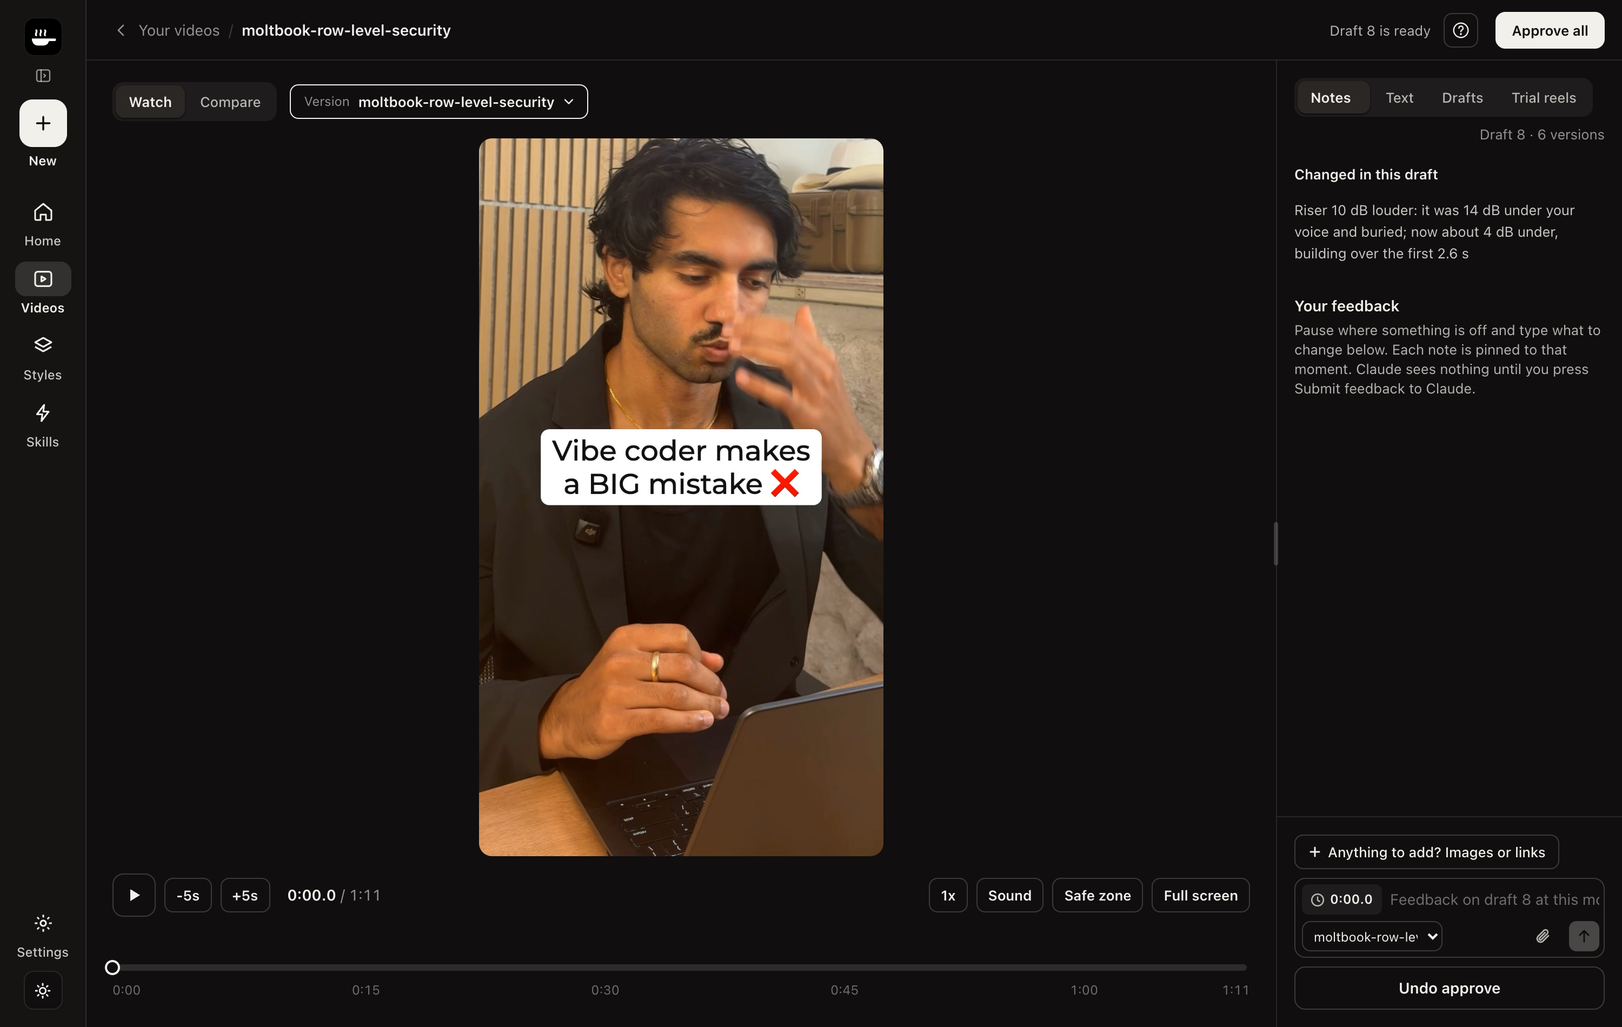
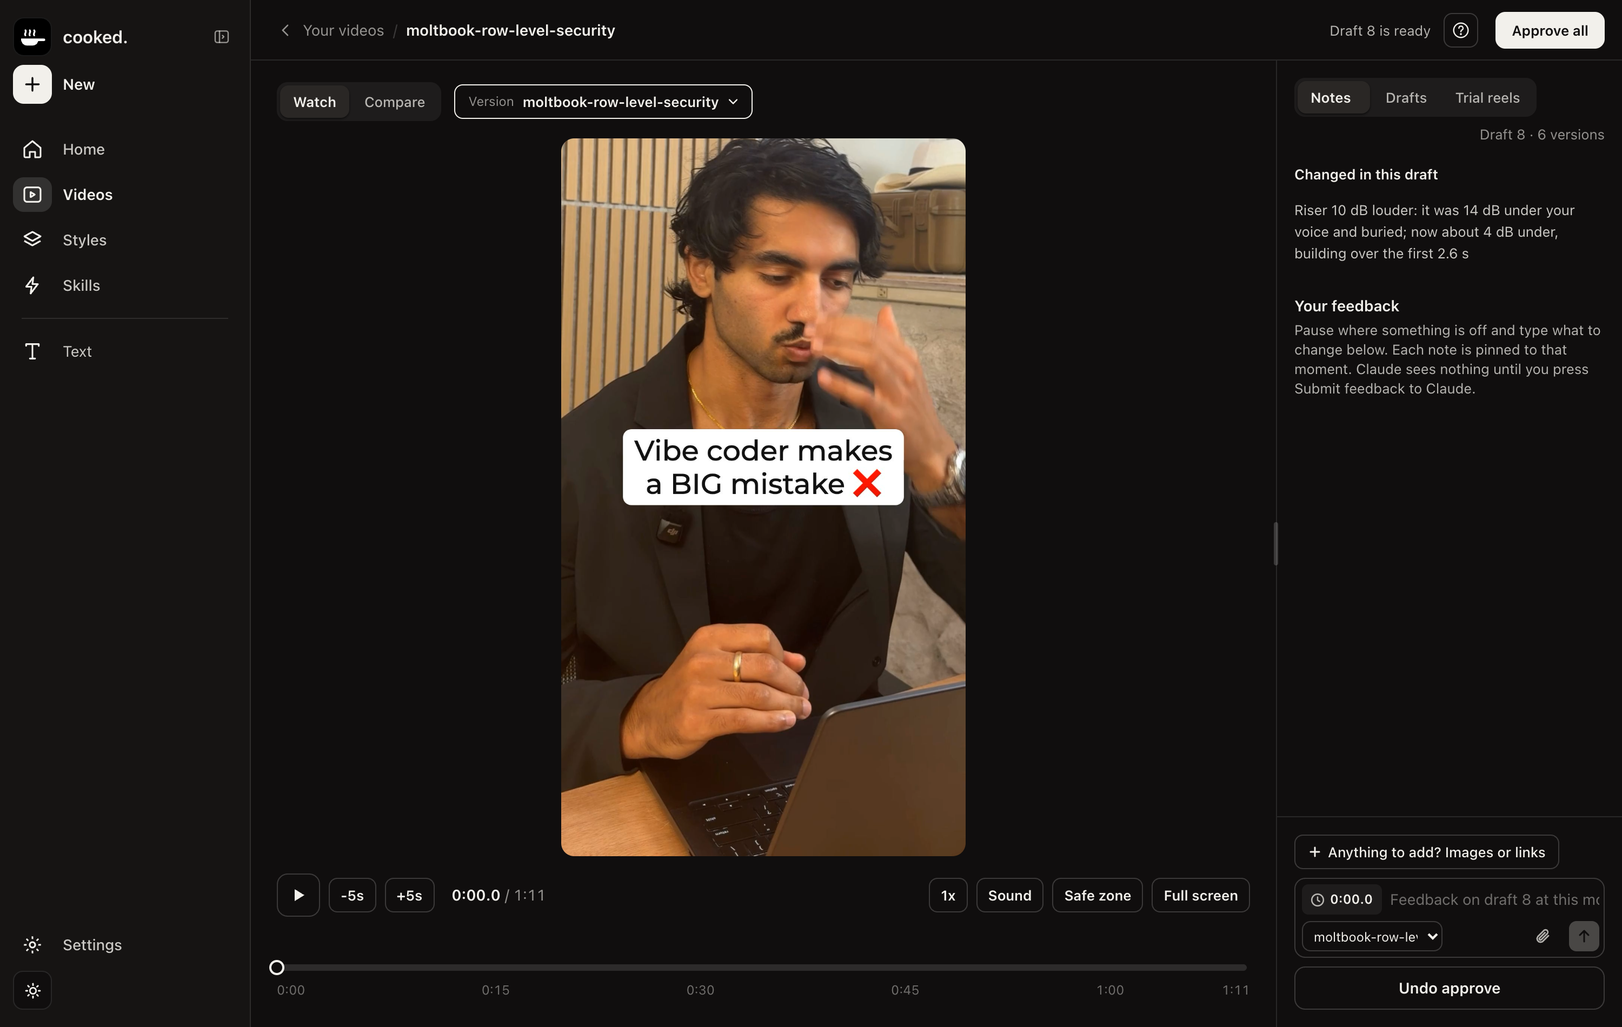
Text panel on the left like Tella; Notes stay on the right
Max: Notes stay on the right, text goes on the left like Tella. Tella's
editor (checked in his workspace): a tool column on the left opens each
tool's panel beside it; Overlay > Text is a grid of style tiles drawn in
their look plus +; select a text on the canvas to change it.

The Text tool sits in the left menu under Skills (edit stage only) and opens
#tside between the menu and the video: + and three look tiles, the selected
text's words, look, Start here / End here and Delete, then every text on the
video. The right panel is Notes, Drafts, Trial reels again. Fixes from a
usability pass: the preview stays while you scrub during an edit and clears
after Save, the toast says to Submit, and the player bar fits or wraps with
both panels open down to 1100 px.

diff --git a/plugins/ai-editor/lib/ai_editor/review.html b/plugins/ai-editor/lib/ai_editor/review.html
@@ -377,10 +377,25 @@ aside{width:var(--sidew,320px);flex-shrink:0;background:var(--panel);border-left
 /* the Text tool: words typed into the box go on the video, dragged into place, in TikTok's three looks */
 #tools{grid-row:2;grid-column:3;justify-self:end;display:flex;gap:2px}
 #tlayer{overflow:hidden}
-body.txtab #box,body.txtab #adds{display:none}body.txtab .pfoot{padding-top:0;border-top:0}
+/* the Text panel: Tella's Overlay > Text, on the left beside the menu; Notes stay on the right */
+.rdiv{height:1px;align-self:stretch;margin:6px 8px;background:var(--line);flex-shrink:0}.rdiv[hidden]{display:none}
+button.ritem.rtool.on i{background:var(--railon)}button.ritem.rtool.on{color:var(--ink);font-weight:600}
+#tside{display:none;width:300px;flex-shrink:0;flex-direction:column;background:var(--panel);border-right:1px solid var(--line);overflow:hidden}
+body.tside #tside{display:flex}
+@media (max-width:1440px){body.tside .transport{gap:6px}body.tside .left{padding-left:16px;padding-right:16px}body.tside .transport .tbtn{padding:0 8px}}
+@media (max-width:1279px){body.tside .transport{flex-wrap:wrap;height:auto;row-gap:6px}}
+.tsh{display:flex;align-items:center;gap:6px;padding:16px 16px 8px}.tsh b{flex:1;font-size:15px;line-height:20px;font-weight:600;color:var(--strong)}
+.tsh button{width:28px;height:28px;border-radius:8px;display:grid;place-items:center;font-size:18px;line-height:1;color:var(--body)}.tsh button:hover{background:var(--hover);color:var(--ink)}
+#tbody{flex:1;min-height:0;overflow:auto;padding:4px 16px 16px;display:flex;flex-direction:column;gap:14px}
+.ttiles{display:grid;grid-template-columns:repeat(3,1fr);gap:8px}
+.ttile{height:64px;border-radius:10px;background:#3A3D44 linear-gradient(160deg,#5B6270,#2B2E35);display:grid;place-items:center;font-family:'TikTok Sans',system-ui,-apple-system,sans-serif;font-weight:700;font-size:15px;outline:1.5px solid transparent;outline-offset:2px}
+.ttile:hover{outline-color:var(--line2)}.ttile.on{outline-color:var(--ink)}
+.tcap{display:flex;justify-content:space-between;font-size:12px;line-height:16px;color:var(--muted)}
+.ttime{display:flex;align-items:center;gap:6px;font-size:13px;line-height:16px;color:var(--strong)}.ttime b{flex:1;font-weight:600}
+.ttime button{height:28px;padding:0 9px;border-radius:8px;border:1px solid var(--line2);font-size:12px;font-weight:600;color:var(--ink)}.ttime button:hover{border-color:var(--ink)}
+.tnew #tdel{color:var(--flag);margin-right:auto;padding:0}
+@media (max-width:760px){#tside{width:auto;border-right:0;border-bottom:1px solid var(--line)}body.tside main{flex-direction:column}}
 .tsub{margin:0;color:var(--muted);font-size:13px;line-height:18px}
-.tstyles{display:flex;gap:6px}.tstyles button{flex:1;height:32px;border-radius:8px;border:1px solid var(--line2);background:var(--panel);font-size:13px;font-weight:600;color:var(--ink)}
-.tstyles button:hover{border-color:var(--ink)}.tstyles button.on{border-color:var(--ink);box-shadow:inset 0 0 0 1px var(--ink)}
 .tnew{display:flex;flex-direction:column;gap:8px;padding:12px;border:1px solid var(--line);border-radius:12px}
 .tnew b{font-size:13px;line-height:16px;color:var(--strong)}
 .tnew input{height:36px;border:1px solid var(--line2);border-radius:8px;background:var(--panel);padding:0 10px;font:inherit;font-size:14px;color:var(--strong);outline:none}.tnew input:focus{border-color:var(--ink)}
@@ -559,6 +574,8 @@ body.making #making{display:flex}
  <a class="ritem on" data-home data-view="videos" href="#" aria-current="page"><i><svg width="20" height="20" viewBox="0 0 24 24" fill="none" stroke="currentColor" stroke-width="1.9" stroke-linejoin="round"><rect x="3" y="4" width="18" height="16" rx="3"/><path d="M10 9.2v5.6l4.6-2.8z"/></svg></i>Videos</a>
  <a class="ritem" data-home data-view="mystyle" href="#"><i><svg width="20" height="20" viewBox="0 0 24 24" fill="none" stroke="currentColor" stroke-width="1.9" stroke-linejoin="round"><path d="M12 3 3 8l9 5 9-5z"/><path d="M3 13l9 5 9-5"/></svg></i>Styles</a>
  <a class="ritem" data-home data-view="skills" href="#"><i><svg width="20" height="20" viewBox="0 0 24 24" fill="none" stroke="currentColor" stroke-width="1.9" stroke-linejoin="round"><path d="M13 3 5 13.5h6l-1 7.5 8-10.5h-6z"/></svg></i>Skills</a>
+ <div class="rdiv" id="railtools" hidden></div>
+ <button class="ritem rtool" id="railtext" type="button" hidden title="Text on the video"><i><svg width="20" height="20" viewBox="0 0 24 24" fill="none" stroke="currentColor" stroke-width="1.9" stroke-linecap="round" stroke-linejoin="round"><path d="M5 6V4h14v2M12 4v16M9 20h6"/></svg></i>Text</button>
  <div class="rflex"></div>
  <a class="ritem rjob" id="railjobs" data-home data-view="videos" href="#" hidden><i><span id="jobn">0</span><svg width="24" height="24" viewBox="0 0 24 24" aria-hidden="true"><circle cx="12" cy="12" r="10" fill="none" stroke="var(--line)" stroke-width="2.5"/><path d="M12 2a10 10 0 0 1 9.5 13" fill="none" stroke="currentColor" stroke-width="2.5" stroke-linecap="round"/></svg></i>Making</a>
  <button class="ritem rupd" id="railupd" type="button" hidden><i><svg width="18" height="18" viewBox="0 0 24 24" fill="none" stroke="currentColor" stroke-width="2.2" stroke-linecap="round" stroke-linejoin="round"><path d="M12 16V4M7 9l5-5 5 5M4 20h16"/></svg></i><span id="railupdt">Update</span></button>
@@ -579,6 +596,7 @@ body.making #making{display:flex}
 </ol><div id="keys"></div></section>
 
 <main>
+<section id="tside" aria-label="Text"><div class="tsh"><b>Text</b><button id="tplus" title="Add text (the default look)" aria-label="add text">+</button><button id="tclose" title="Close" aria-label="close the text panel">×</button></div><div id="tbody"></div></section>
 <div class="left">
  <div class="stagewrap">
  <div id="stagebar" role="status"><svg width="15" height="15" viewBox="0 0 16 16" fill="none" stroke="currentColor" stroke-width="1.4" stroke-linecap="round"><circle cx="4" cy="4.5" r="2.2"/><circle cx="4" cy="11.5" r="2.2"/><path d="M5.8 5.6L14 11.5M5.8 10.4L14 4.5"/></svg><span id="stagetext"></span></div>
@@ -615,7 +633,7 @@ body.making #making{display:flex}
 </div>
 <div class="rsz" id="rszside" role="separator" aria-orientation="vertical" aria-label="drag to resize the notes panel" title="drag to resize"></div>
 <aside>
- <div class="phead"><div class="seg" id="ptabs"><button data-tab="notes">Notes <small id="ncount"></small></button><button data-tab="text" hidden>Text</button><button data-tab="rounds">Drafts</button><button data-tab="trials" hidden>Trial reels</button></div><span id="pmeta"></span></div>
+ <div class="phead"><div class="seg" id="ptabs"><button data-tab="notes">Notes <small id="ncount"></small></button><button data-tab="rounds">Drafts</button><button data-tab="trials" hidden>Trial reels</button></div><span id="pmeta"></span></div>
  <div class="mhead2"><div><b>Notes</b><span id="mcount"></span></div><button id="msend"></button></div>
  <div id="list"></div>
  <div class="pfoot">
@@ -877,7 +895,7 @@ function render(){
   $('mcount').textContent=mine?mine+(p?'':', not sent'):'';
   if(S.trials&&S.trials.v!==trOpened){trOpened=S.trials.v;if(S.trials.state==='proposed')tab='trials'}   // a new plan: open the tab on it
   if(!S.trials&&tab==='trials')tab='notes';
-  $('ptabs').querySelector('[data-tab=trials]').hidden=!S.trials;document.body.classList.toggle('trtab',tab==='trials');document.body.classList.toggle('txtab',tab==='text');
+  $('ptabs').querySelector('[data-tab=trials]').hidden=!S.trials;document.body.classList.toggle('trtab',tab==='trials');
   [...$('ptabs').children].forEach(b=>b.classList.toggle('on',b.dataset.tab===tab));
   const nv=(vr.alts||[]).length;
   meta();
@@ -1063,8 +1081,7 @@ function renderList(){
       const ta2=l.querySelector('.trta');if(ta2){ta2.value=trAsk;if(f){ta2.focus();ta2.setSelectionRange(pos,pos)}}}
     return;
   }
-  if(tab==='text')return renderTextPanel();
-  $('list')._trh='';$('list')._tx=0;
+  $('list')._trh='';
   if(tab==='rounds'){
     const rs=(S.rounds||[cur()]).filter(r=>r.stage===view.stage).slice().reverse(),p=pending();
     $('list').innerHTML=rs.map(r=>{const n=S.comments.filter(c=>c.stage===r.stage&&c.round===r.round).length,k=key(r);
@@ -1590,76 +1607,89 @@ $('pics').onclick=e=>{const b=e.target.closest('[data-rm]');if(b){pics.splice(+b
 ta.addEventListener('paste',e=>{const fs=[...(e.clipboardData?.files||[])];if(fs.length){e.preventDefault();addFiles(fs)}});
 box.addEventListener('dragover',e=>{e.preventDefault();if(!ta.disabled)box.classList.add('drag')});box.addEventListener('dragleave',()=>box.classList.remove('drag'));
 box.addEventListener('drop',e=>{e.preventDefault();box.classList.remove('drag');if(!ta.disabled)addFiles(e.dataTransfer.files)});
-// the Text tab (beside Notes): pick a look, type, drag it on the video, Add text. It starts at the playhead for 3 s, or
-// over an i/o range, and is saved as a note with add_text (review.py `wait` puts it in texts.json). Every text of the edit
-// is listed; click one (in the list, or on the video) to change its words, look, place or time (i/o) and Save.
-// A sent one is changed in texts.json with a note (/text/edit) or taken out (/text/delete), so the next draft follows.
+// the Text panel (Tella's Overlay > Text), on the left: the Text tool in the menu opens it, Notes stay on the right.
+// A tile adds a text in that look at the playhead (3 s, or over an i/o range); type, drag it on the video, Add text.
+// Click any text (on the video or in the list) to change its words, look, place or time, then Save, or Delete it.
+// Not sent yet: the note changes (/edit). Sent: texts.json changes with a note for Claude (/text/edit, /text/delete).
 const TSTY={plain:'Plain',outline:'Outline',box:'Box'},TEXT_SIZE=6;
-let tx=null,tsig='';   // tx: the text being made or changed {style,x,y,word,edit:{id,fresh,start,end}}
+let tx=null,tsig='',tpanel=false;   // tx: the text being made or changed {style,x,y,word,start,end,edit:{id,fresh}}
 const tword=()=>{const w=$('tword');return w?w.value.trim():tx?tx.word||'':''};
-function setText(style,edit){tx=style?{style,x:edit?edit.x_pct:(tx&&tx.x)||50,y:edit?edit.y_pct:(tx&&tx.y)||40,word:edit?edit.text:tword(),edit:edit||(tx&&tx.edit)||null}:null;
-  if(edit&&edit.start!=null&&Math.abs(v.currentTime-edit.start)>.05&&!(v.currentTime>=edit.start&&v.currentTime<edit.end))v.currentTime=edit.start+.05;
-  document.body.classList.toggle('texting',!!tx);if(tab!=='text'&&tx){tab='text'}
-  tsig='';$('list')._tf=null;if(S)render();renderTexts();if(tx){v.pause();setTimeout(()=>{const w=$('tword');if(w){w.focus();w.select()}},0)}}
+const editable=c=>!(S.sent&&!c.queued)&&c.round>=S.round;
+function openPanel(on){tpanel=on;document.body.classList.toggle('tside',on);$('railtext').classList.toggle('on',on);if(!on&&tx)setText(null);else renderTextPanel()}
+function setText(style,edit){
+  if(!style){tx=null}
+  else{const[a,b]=noteSpan(),t0=edit?edit.start:a;
+    tx={style,x:edit?edit.x_pct:(tx&&tx.x)||50,y:edit?edit.y_pct:(tx&&tx.y)||40,word:edit?edit.text:tword(),
+        start:t0,end:edit?edit.end:(b??Math.min(t0+3,v.duration||t0+3)),edit:edit||(tx&&tx.edit)||null};
+    if(!tpanel)openPanel(true);
+    if(!(v.currentTime>=tx.start&&v.currentTime<tx.end))v.currentTime=tx.start+.05}
+  document.body.classList.toggle('texting',!!tx);tsig=null;$('tbody')._tf=null;renderTextPanel();renderTexts();
+  if(tx){v.pause();setTimeout(()=>{const w=$('tword');if(w){w.focus();w.select()}},0)}}
 function textItems(){   // sent ones (texts.json) and this edit's text notes not in it yet
   const sent=S.texts||[],ids=new Set(sent.map(x=>x.id));
   const fresh=S.comments.filter(c=>c.add_text&&c.stage==='edit'&&!ids.has('edit'+c.round+'-'+c.id))   // with Claude, not in texts.json yet: shown, locked
     .map(c=>({id:c.id,text:c.text,style:c.add_text.style,x_pct:c.add_text.x_pct,y_pct:c.add_text.y_pct,start:c.t,end:c.t_end??c.t+3,fresh:editable(c),locked:!editable(c)}));
   return [...fresh,...sent.map(x=>({...x,fresh:false}))].sort((a,b)=>a.start-b.start)}
-const editable=c=>!(S.sent&&!c.queued)&&c.round>=S.round;
 function renderTextPanel(){
-  const l=$('list');
-  if(!l._tx){l._tx=1;l._trh='';l.innerHTML=`<p class="tsub">Text on the video. Pick a look, type, and drag it into place. It starts at the playhead and stays 3 s, or over the range you mark with i and o. Click a text to change it.</p>
-    <div class="tstyles" id="tstyles">${Object.entries(TSTY).map(([k,n])=>`<button data-ts="${k}">${n}</button>`).join('')}</div><div id="tform"></div><div class="tlist" id="trows"></div>`}
-  document.querySelectorAll('#tstyles [data-ts]').forEach(b=>b.classList.toggle('on',!!tx&&b.dataset.ts===tx.style));
+  const l=$('tbody');if(!tpanel||!S)return;
+  if(!l._tx){l._tx=1;l.innerHTML=`<div><div class="tcap" style="margin-bottom:8px"><span>Pick a look</span></div><div class="ttiles" id="ttiles">${Object.entries(TSTY).map(([k,n])=>`<button class="ttile" data-ts="${k}" title="${n}"><span class="ts-${k}">${n}</span></button>`).join('')}</div></div><div id="tform"></div><div class="tlist" id="trows"></div>`}
+  document.querySelectorAll('#ttiles [data-ts]').forEach(b=>b.classList.toggle('on',!!tx&&b.dataset.ts===tx.style));
   const f=$('tform'),sig=tx?(tx.edit?'e'+tx.edit.id:'n'):'';
-  if(l._tf!==sig){l._tf=sig;f.innerHTML=tx?`<div class="tnew">${tx.edit?`<b>Change this text</b>`:''}<input id="tword" placeholder="Type your text" maxlength="120" aria-label="the text" value="${esc(tx.word||'')}">
-    <div class="row"><span>${tx.edit?'Drag it on the video. Mark i and o to change its time.':'Drag it on the video'}</span><button id="tcancel">Cancel</button><button id="tadd" ${tword()?'':'disabled'}>${tx.edit?'Save':'Add text'}</button></div></div>`:''}
+  if(l._tf!==sig){l._tf=sig;f.innerHTML=tx?`<div class="tnew">${tx.edit?'<b>Change this text</b>':'<b>New text</b>'}<input id="tword" placeholder="Type your text" maxlength="120" aria-label="the text" value="${esc(tx.word||'')}">
+    <div class="ttime"><b id="tspan"></b><button id="tstart" title="Start at the playhead">Start here</button><button id="tend" title="End at the playhead">End here</button></div>
+    <div class="row"><span>Drag it on the video</span></div>
+    <div class="row">${tx.edit?'<button id="tdel">Delete</button>':'<span></span>'}<button id="tcancel">Cancel</button><button id="tadd" ${tword()?'':'disabled'}>${tx.edit?'Save':'Add text'}</button></div></div>`:''}
+  if(tx&&$('tspan'))$('tspan').textContent=fmtx(tx.start)+' – '+fmtx(tx.end);
   const all=textItems(),on=x=>tx&&tx.edit&&String(tx.edit.id)===String(x.id);
   const row=x=>x.locked?`<div class="titem" data-tseek="${x.start}"><div><b>${esc(x.text)}</b><span>${TSTY[x.style]||x.style} · ${fmtx(x.start)}–${fmtx(x.end)} · Claude has it</span></div></div>`
     :`<div class="titem${on(x)?' on':''}" data-tedit="${esc(String(x.id))}" data-fresh="${x.fresh?1:''}" title="Click to change it"><div><b>${esc(x.text)}</b><span>${TSTY[x.style]||x.style} · ${fmtx(x.start)}–${fmtx(x.end)}</span></div><button data-tdel="${esc(String(x.id))}" data-fresh="${x.fresh?1:''}">Delete</button></div>`;
   const nw=all.filter(x=>x.fresh),old=all.filter(x=>!x.fresh);
-  const h=(nw.length?`<h4>Not sent yet</h4>${nw.map(row).join('')}`:'')+(old.length?`<h4>Sent to Claude</h4>${old.map(row).join('')}`:'')
-    +(all.length?'':'<p class="tsub">No text yet. Pick a look above to add one.</p>');
+  const h=(nw.length?`<h4>Not sent yet</h4>${nw.map(row).join('')}`:'')+(old.length?`<h4>On the video</h4>${old.map(row).join('')}`:'')
+    +(all.length||tx?'':'<p class="tsub">No text yet. Pick a look to add one. Click any text on the video to change it.</p>');
   if($('trows')._h!==h){$('trows')._h=h;$('trows').innerHTML=h}}
 function editText(id,fresh){const x=textItems().find(x=>String(x.id)===String(id)&&!!x.fresh===!!fresh);if(!x)return;
   inT=outT=null;renderBar();setText(x.style,{id:x.id,fresh:x.fresh,text:x.text,x_pct:x.x_pct??50,y_pct:x.y_pct??40,start:x.start,end:x.end})}
-$('list').addEventListener('click',async e=>{
-  const st=e.target.closest('#tstyles [data-ts]');if(st){if(tx){tx.style=st.dataset.ts;tsig='';renderTextPanel();renderTexts()}else setText(st.dataset.ts);return}
+async function delText(id,fresh){const r=fresh?await post('/delete',{id:+id}):await post('/text/delete',{id});
+  if(tx&&tx.edit&&String(tx.edit.id)===String(id))setText(null);toast(fresh?'Text deleted':r.error||'Text deleted. The next draft drops it.');await load()}
+$('railtext').onclick=()=>openPanel(!tpanel);$('tclose').onclick=()=>openPanel(false);$('tplus').onclick=()=>setText('outline');
+$('tbody').addEventListener('click',async e=>{
+  const st=e.target.closest('#ttiles [data-ts]');if(st){if(tx){tx.style=st.dataset.ts;tsig=null;renderTextPanel();renderTexts()}else setText(st.dataset.ts);return}
   if(e.target.id==='tcancel'){setText(null);return}
   if(e.target.id==='tadd'){saveText();return}
-  const d=e.target.closest('[data-tdel]');
-  if(d){e.stopPropagation();d.disabled=true;const r=d.dataset.fresh?await post('/delete',{id:+d.dataset.tdel}):await post('/text/delete',{id:d.dataset.tdel});
-    if(tx&&tx.edit&&String(tx.edit.id)===d.dataset.tdel)setText(null);
-    toast(d.dataset.fresh?'Text deleted':r.error||'Text deleted. The next draft drops it.');await load();return}
+  if(e.target.id==='tstart'||e.target.id==='tend'){const t=Math.round(v.currentTime*100)/100;
+    if(e.target.id==='tstart'){tx.start=t;if(tx.end<=t+.1)tx.end=Math.min(t+3,v.duration||t+3)}else{if(t<=tx.start+.1)return toast('Move the playhead after the start first');tx.end=t}
+    renderTextPanel();renderTexts();return}
+  if(e.target.id==='tdel'&&tx&&tx.edit){e.target.disabled=true;return delText(tx.edit.id,tx.edit.fresh)}
+  const d=e.target.closest('[data-tdel]');if(d){e.stopPropagation();d.disabled=true;return delText(d.dataset.tdel,!!d.dataset.fresh)}
   const ed=e.target.closest('[data-tedit]');if(ed)return editText(ed.dataset.tedit,ed.dataset.fresh);
   const sk=e.target.closest('[data-tseek]');if(sk){v.currentTime=+sk.dataset.tseek;v.pause()}});
-$('list').addEventListener('input',e=>{if(e.target.id==='tword'){tx.word=e.target.value;$('tadd').disabled=!tword();renderTexts()}});
-$('list').addEventListener('keydown',e=>{if(e.target.id!=='tword')return;e.stopPropagation();if(e.key==='Enter'){e.preventDefault();saveText()}if(e.key==='Escape')setText(null)});
+$('tbody').addEventListener('input',e=>{if(e.target.id==='tword'){tx.word=e.target.value;$('tadd').disabled=!tword();renderTexts()}});
+$('tbody').addEventListener('keydown',e=>{if(e.target.id!=='tword')return;e.stopPropagation();if(e.key==='Enter'){e.preventDefault();saveText()}if(e.key==='Escape')setText(null)});
 async function saveText(){const text=tword();if(!tx||!text)return;
-  const look={style:tx.style,x_pct:tx.x,y_pct:tx.y},ed=tx.edit,span=inT!==null?noteSpan():null;   // i/o marked: the new time
+  const look={style:tx.style,x_pct:tx.x,y_pct:tx.y},ed=tx.edit,t={start:Math.round(tx.start*100)/100,end:Math.round(tx.end*100)/100};
   let r;
-  if(!ed)r=await post('/comment',{t:noteSpan()[0],t_end:noteSpan()[1],text,images:[],alt:alt||null,add_text:look});
-  else if(ed.fresh)r=await post('/edit',{id:ed.id,text,add_text:look,...(span?{t:span[0],t_end:span[1]??span[0]+3}:{})});
-  else r=await post('/text/edit',{id:ed.id,text,...look,...(span?{start:span[0],end:span[1]??span[0]+3}:{})});
+  if(!ed)r=await post('/comment',{t:t.start,t_end:t.end,text,images:[],alt:alt||null,add_text:look});
+  else if(ed.fresh)r=await post('/edit',{id:ed.id,text,add_text:look,t:t.start,t_end:t.end});
+  else r=await post('/text/edit',{id:ed.id,text,...look,...t});
   if(!r||!(r.id||r.ok))return toast((r&&r.error)||'That did not save.');
-  inT=outT=null;renderBar();setText(null);toast(!ed?'Text added':ed.fresh?'Text changed':'Text changed. The next draft shows it.');await load()}
+  inT=outT=null;renderBar();setText(null);toast(!ed?'Text added. Submit feedback to send it to Claude.':ed.fresh?'Text changed. Submit feedback to send it.':'Text changed. Submit feedback and the next draft shows it.');await load()}
 function renderTexts(){
   const L=$('tlayer'),fs=Math.min(L.offsetWidth,L.offsetHeight)*TEXT_SIZE/100,t=v.currentTime,edit=!!(S&&view&&view.stage==='edit');
-  const tb=$('ptabs').querySelector('[data-tab=text]');if(tb)tb.hidden=!edit;if(!edit&&tx)setText(null);if(!edit&&tab==='text'){tab='notes';if(S)render()}
+  $('railtext').hidden=$('railtools').hidden=!edit;if(!edit&&tpanel)openPanel(false);
+  if(tpanel)renderTextPanel();
   const one=(a,text,id,k)=>`<div class="tl"${id?` id="${id}"`:''}${k?` data-tclick="${esc(k)}"`:''} style="left:${a.x_pct}%;top:${a.y_pct}%;font-size:${fs}px"><span class="ts-${a.style}">${esc(text)}</span></div>`;
   const editing=tx&&tx.edit&&tx.edit.fresh?tx.edit.id:null;
   const html=(edit&&!cmp?S.comments.filter(c=>c.add_text&&c.id!==editing&&c.stage===view.stage&&c.round===view.round&&c.t<=t&&t<c.t_end&&onAlt(c)):[]).map(c=>one(c.add_text,c.text,'','f'+c.id)).join('')
     +(tx?one({style:tx.style,x_pct:tx.x,y_pct:tx.y},tword()||'Type your text','tprev'):'');
   if(html!==tsig){tsig=html;L.innerHTML=html}}
-new ResizeObserver(()=>{tsig='';renderTexts()}).observe($('tlayer'));
+new ResizeObserver(()=>{tsig=null;renderTexts()}).observe($('tlayer'));
 $('tlayer').addEventListener('pointerdown',e=>{
   const k=e.target.closest('[data-tclick]');if(k&&!tx){e.preventDefault();editText(k.dataset.tclick.slice(1),true);return}   // a text not sent yet: click it to change it
   const el=e.target.closest('#tprev');if(!el||!tx)return;e.preventDefault();el.setPointerCapture(e.pointerId);
   const vert=v.videoHeight>v.videoWidth,mv=ev=>{const r=$('tlayer').getBoundingClientRect(),cl=(n,a,b)=>Math.round(Math.min(b,Math.max(a,n))*10)/10;
     tx.x=cl((ev.clientX-r.left)/r.width*100,vert?20:12,vert?73:88);tx.y=cl((ev.clientY-r.top)/r.height*100,vert?16:8,vert?72:92);   // reels: inside the safe zone
     el.style.left=tx.x+'%';el.style.top=tx.y+'%'};
-  el.onpointermove=mv;el.onpointerup=()=>{el.onpointermove=null;tsig='';const w=$('tword');if(w)w.focus()}});
+  el.onpointermove=mv;el.onpointerup=()=>{el.onpointermove=null;tsig=null;const w=$('tword');if(w)w.focus()}});
 async function save(){const text=ta.value.trim();if(ta.disabled||(!text&&!pics.length))return;
   const[t,te]=noteSpan(),nv=(viewRound().alts||[]).length;
   await post('/comment',{t,t_end:te,text,images:pics,alt:nv&&$('scope').value==='*'?'*':alt||null,on:noteOn});

diff --git a/CHANGELOG.md b/CHANGELOG.md
@@ -4,7 +4,7 @@ What changed for every user, newest first.
 
 ## Unreleased
 
-- Text has its own tab beside Notes on the right (the T button leaves the note box). Every text on the edit is listed; click one in the list or on the video to change its words, look, place or time, then Save. Sent texts change too, with Delete on each.
+- Text has its own panel on the left, like Tella: the Text tool in the menu opens it, Notes stay on the right. Pick a look (Plain, Outline, Box), type, drag it on the video. Click any text, in the list or on the video, to change its words, look, place or time (Start here, End here), or Delete it. Sent texts change too.
 ## ai-editor 2.7.22, creator-teardown 2.7.22 (2026-10-20)
 - Check now sees a new release the moment it is out. It read GitHub's 5-minute cached copy before, so a fresh release could still show as the old one.
 
